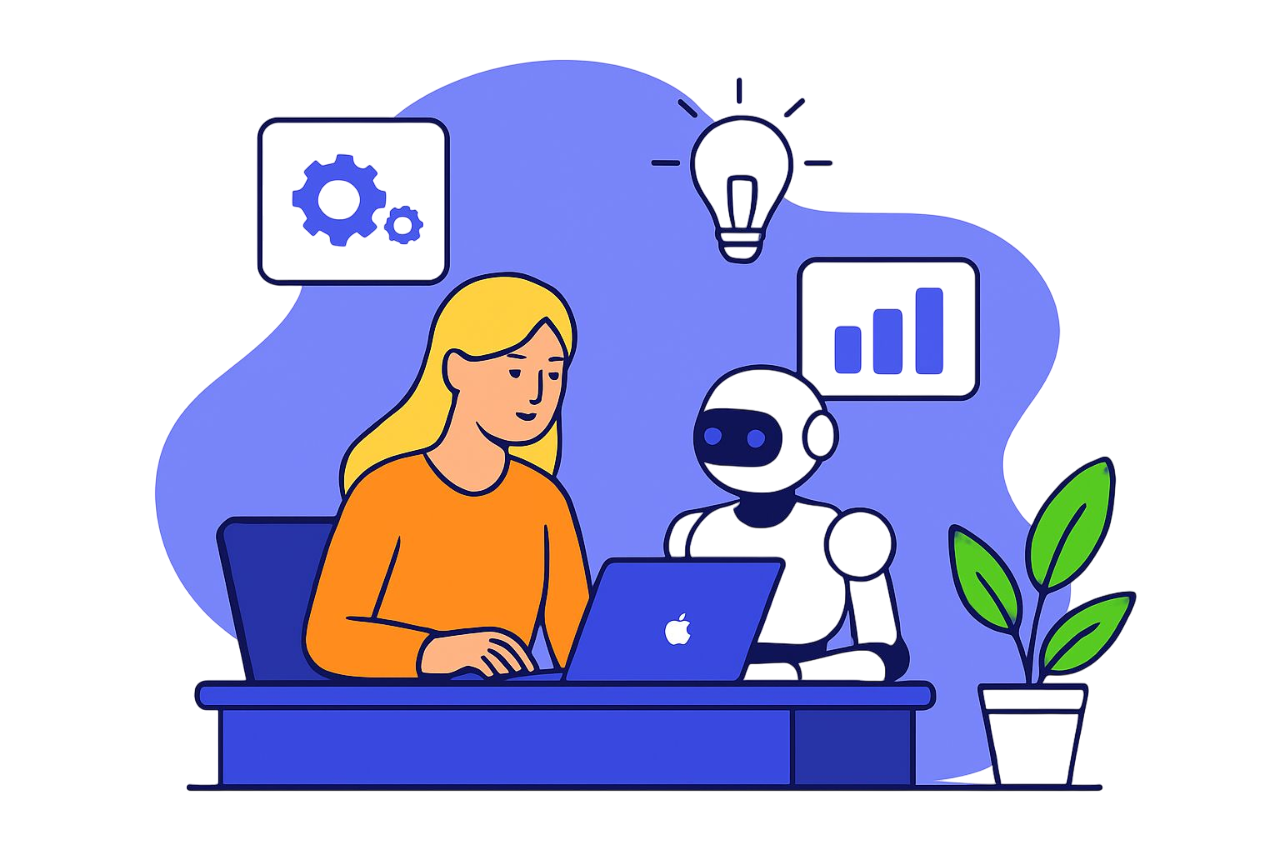
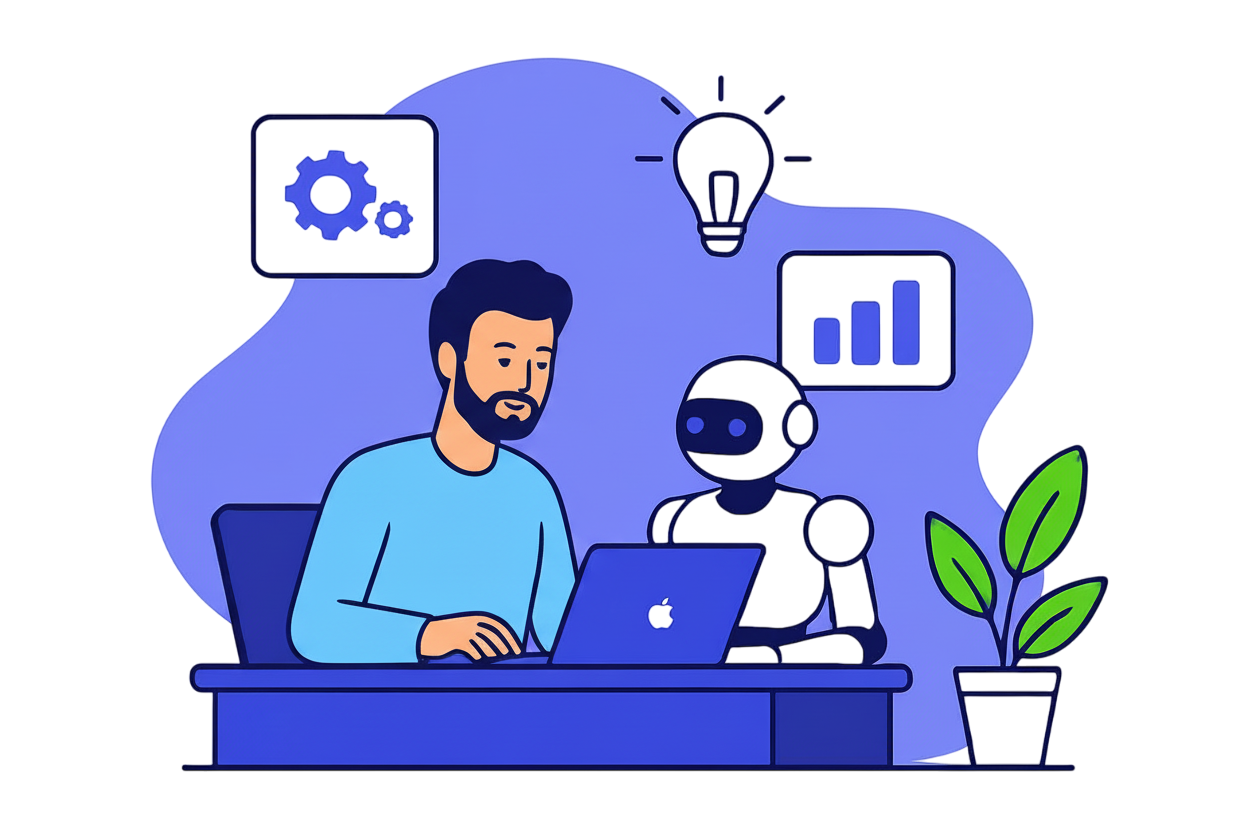
Added gif

diff --git a/src/app/features/footer/footer.component.html b/src/app/features/footer/footer.component.html
@@ -10,7 +10,7 @@
                 <!-- Twitter -->
                 <a href="https://x.com/Neonys_AI" target="_blank" rel="noopener noreferrer"
                     class="text-primary-blue hover:text-primary-purple transition">
-                    <i class="fab fa-twitter text-xl"></i>
+                    <i class="fab fa-x text-xl"></i>
                 </a>
 
                 <!-- LinkedIn -->

diff --git a/src/app/features/hero/components/hero/hero.html b/src/app/features/hero/components/hero/hero.html
@@ -26,7 +26,7 @@
       </div>
     </div>
     <div class="md:w-1/2 flex justify-center">
-      <img src="/assets/automation.png" alt="Hero Agents" class="w-full max-w-md floating">
+      <img src="/assets/automation.gif" alt="Hero Agents" class="w-full max-w-md floating">
     </div>
   </div>
 </section>
